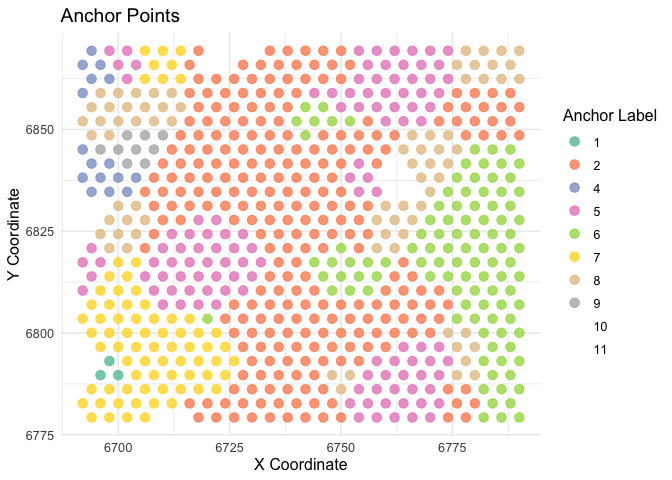
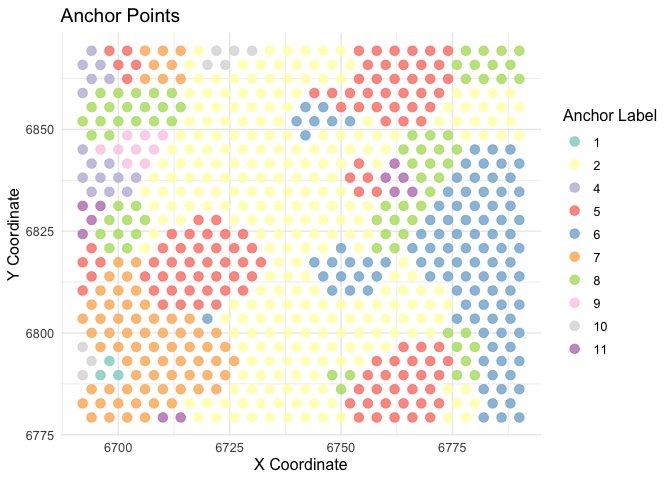
updated palette for README

diff --git a/README.md b/README.md
@@ -68,10 +68,6 @@ mouse_transcripts <- fictureR::mouse_transcripts
 visualizer(mouse_anchors %>% filter(x >= 6690.1, x <= 6790.1,
                                     y >= 6772, y <= 6872), 
            type = c("anchor"))
-#> Warning in RColorBrewer::brewer.pal(n, pal): n too large, allowed maximum for palette Set2 is 8
-#> Returning the palette you asked for with that many colors
-#> Warning: Removed 48 rows containing missing values or values outside the scale range
-#> (`geom_point()`).
 ```
 
 <img src="man/figures/README-example-1.png" width="100%" />
@@ -81,13 +77,8 @@ visualizer(mouse_anchors %>% filter(x >= 6690.1, x <= 6790.1,
 # Decoding input data
 # mouse_output <- slda_decoder(mouse_transcripts, mouse_anchors, scale = 100)
 
-
 # Updated anchor assignments following decoding
 visualizer(fictureR::mouse_updated_anchor, type = c("anchor"))
-#> Warning in RColorBrewer::brewer.pal(n, pal): n too large, allowed maximum for palette Set2 is 8
-#> Returning the palette you asked for with that many colors
-#> Warning: Removed 19 rows containing missing values or values outside the scale range
-#> (`geom_point()`).
 ```
 
 <img src="man/figures/README-example-2.png" width="100%" />
@@ -96,10 +87,6 @@ visualizer(fictureR::mouse_updated_anchor, type = c("anchor"))
 # 
 # Visualization of pixel data following decoding
 visualizer(fictureR::mouse_pixel, type = c("pixel"))
-#> Warning in RColorBrewer::brewer.pal(n, pal): n too large, allowed maximum for palette Set2 is 8
-#> Returning the palette you asked for with that many colors
-#> Warning: Removed 757 rows containing missing values or values outside the scale range
-#> (`geom_point()`).
 ```
 
 <img src="man/figures/README-example-3.png" width="100%" />
